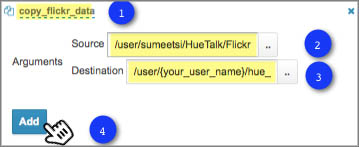
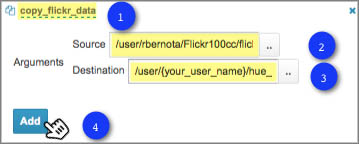
Added new screen shots and updated the getting started.

Changed region(s): [[0.0, 0.0, 0.9499, 0.6667], [0.0306, 0.7222, 0.337, 1.0], [0.9499, 0.0556, 1.0, 0.1111]]

diff --git a/external/hue/guide/getting_started/index.rst b/external/hue/guide/getting_started/index.rst
@@ -986,7 +986,7 @@ what we've done thus far.
 
 #. Specify the paths to delete and create by doing the following:
   
-   #. Click the link **HDFS Fs** to open a text box. Enter the string **hue_tutorial_refresh** and click the **√** symbol.
+   #. Click the dialog title **HDFS Fs** to open a text box. Enter the string **hue_tutorial_refresh** and click the **√** symbol.
    #. Click **DELETE PATH** and enter the path **/user/{your_user_name}/hue_tutorial/** in the adjacent text field.
    #. To recreate the directory for the latest results, click **CREATE DIRECTORY** and enter the directory 
       **/user/{your_user_name}/hue_tutorial/** in the adjacent text field.
@@ -1001,98 +1001,64 @@ what we've done thus far.
 
    We're deleting and recreating the path for our results. 
 
-#. Drag the **DistCp** object to the dotted box below **hue_tutorial_refresh**. We're going to 
+#. Drag the **DistCp** object to the gray dotted box below **hue_tutorial_refresh**. We're going to 
    use `DistCp <http://hadoop.apache.org/docs/r1.2.1/distcp2.html>`_ to copy the Flickr dataset 
    to our home directories in an Oozie task.
 #. In the dialog window, do the following: 
  
-   #. Click the **Distcp**, enter the text **copy_flickr_data** in the text box, and then click **√**.
+   #. Click the dialog title **Distcp**, enter the text **copy_flickr_data** in the text box, and then click **√**.
    #. In the **Source** text field, enter **/user/rbernota/Flickr100cc/flickr100m_dataset.bz2**.
    #. In the **Destination** text field, enter **/user/{your_user_name}/hue_tutorial/**.
    #. Click **Add**.
 
-   .. image:: images/drag_distcp.jpg
-      :height: 147px
+   .. image:: images/copy_flickr_data.jpg
+      :height: 144px
       :width: 359 px
       :scale: 100%
       :alt: Create DistCp action.
       :align: left 	
 
-.. TBD: Left off here on 10/08/15.
+   For the rest of the steps in this section, we'll be omitting screenshots unless the interface changes for a step.
+   We feel you have figured out the basic mechanics of creating actions.
 
-#. Drag the **Hive** object to the next available dotted box.
-#. In the **Edit Node** window, enter **del_db_tables** 
-   in the **Name** text field and
-   enter **Delete old tables** in the **Description** 
-   text field.
+#. Drag the **Hive Script** object to the gray dotted box below **copy_flickr_data**.
+#. In the dialog window, do the following: 
 
-   .. image:: images/del_db_tables.jpg
-      :height: 198 px
-      :width: 556 px
-      :scale: 95%
-      :alt: Hive task deletes the Database/Tables.
-      :align: left 	
-   
-#. Click **Advanced** and check the **hcat** checkbox.
-#. From the **Script name** field, click the **..** 
-   navigation box and navigate to 
-   **/user/{your_user_name}/hue_scripts/del_db_tables.hql**. 
+   #. Click the dialog title **Hive Script** to open a text box. Enter the text **del_db_tables** and click the **√** symbol.
+   #. In the **Script** text box, enter the path **/user/{your_user_name}/hue_scripts/del_db_tables.hql**.
+   #. In the **Hive XML** text box, enter the path **/user/rbernota/HueTalk/hive-site.xml**.
+   #. Click **Add**.
 
-   .. image:: images/enter_hive_script.jpg
-      :height: 51 px
-      :width: 662 px
-      :scale: 92%
-      :alt: Enter Hive Script
-      :align: left 	
-
-#. For the **Job properties**, do the following:
-
-   #. Click **Add property** and enter **oozie.action.sharelib.for.hive** for the **Property name** and
-      **hcat_current,hive_current** for the **Value**. (Make sure there are no spaces in the values.)
-   #. Click **Add property again** and enter **hive.querylog.location** for the **Property name** field and **hivelogs** 
-      for the **Value** field.
-
-   .. image:: images/job_properties_hive.jpg
-      :height: 145 px
-      :width: 709 px
-      :scale: 92%
-      :alt: Job properties for Hive
-      :align: left  
-
-#. For the **Job XML** text field, enter the following and click **Done**: **/user/sumeetsi/HueTalk/hive-site.xml**
-
-   .. image:: images/hive_job_xml.jpg
-      :height: 246 px
-      :width: 950 px
-      :scale: 90%
-      :alt: Adding Job XML for Hive task.
-      :align: left   
-  
    .. note:: To run Hive queries in Oozie, you need to provide a ``hive-site.xml``. 
-             If you're not working on the Cobalt Blue Hue instance, you'll have to copy the file from 
-             https://cobaltblue-hue.blue.ygrid.yahoo.com:9999/filebrowser/view/user/sumeetsi/HueTalk/hive-site.xml              to your home directory and enter the path **/user/{your_user_name}/hive-site.xml**.
-   
+             If you're not working on the Titanium Tan Hue instance, you'll have to copy the file from 
+             https://titaniumtan-hue.tan.ygrid.yahoo.com:9999/filebrowser/view/user/rbernota/HueTalk/hive-site.xml
+             to your home directory and enter the path **/user/{your_user_name}/hive-site.xml**.
 
-#. Create another **Hive** task for your Oozie Workflow:
+#. Click **PROPERTIES** to open two text fields.
+#. In the two text fields, enter the value **hive.querylog.location** in the left-hand text field (name) and
+   the value **hivelogs** in the right-hand text field (value).
 
-   #. Drag the **Hive** object to the next available dotted box.
-   #. In the **Edit Node** window, enter the name **create_db_tables**,
-      and the description **Creating Hive database
-      and tables**.
-   #. Click **Advanced** and check the **hcat** checkbox.
-   #. Enter the path **/user/{your_user_name}/hue_scripts/create_db_tables.hql**
-      in the **Script name** field. 
-   #. For the **Job Propertes**,  click **Add property** and enter **oozie.action.sharelib.for.hive** 
-      for the **Property name** and **hcat_current,hive_current** for the **Value**. 
-   #. Click **Add property again** and enter **hive.querylog.location** for the **Property name** field and **hivelogs** 
-      for the **Value** field.
-   #. For the **Job XML** text field, enter the following and click **Done**: **/user/sumeetsi/HueTalk/hive-site.xml**
+   .. image:: images/hivelogs_property.jpg
+      :height: 295 px
+      :width: 466 px
+      :scale: 98%
+      :alt: Hive Logs Property
+      :align: left 
+
+#. Create another **Hive** action for your Oozie Workflow:
+
+   #. Use the name **create_db_tables** for the Hive action.
+   #. In the **Script** text box, enter the path **/user/{your_user_name}/hue_scripts/create_db_tables.hql**. 
+   #. In the **Hive XML** text box, enter the path **/user/rbernota/HueTalk/hive-site.xml**.
+   #. Click the **Properties** icon and enter **hive.querylog.location** for and **hivelogs** for the name and value.
 
 
+.. TBD: Left off here at 10/09/15
 
 #. We still need to create the Hive table with just the camera 
-   and location data, so
-   create the last Hive task with the script **/user/{your_user_name}/hue_scripts/camera_location_query.hql**. 
+   and location data, so create the last Hive action with the 
+   script **/user/{your_user_name}/hue_scripts/camera_location_query.hql**. 
+   
    Use the file name without the extension for the name and
    the description **Creating camera and locations table**.
 
